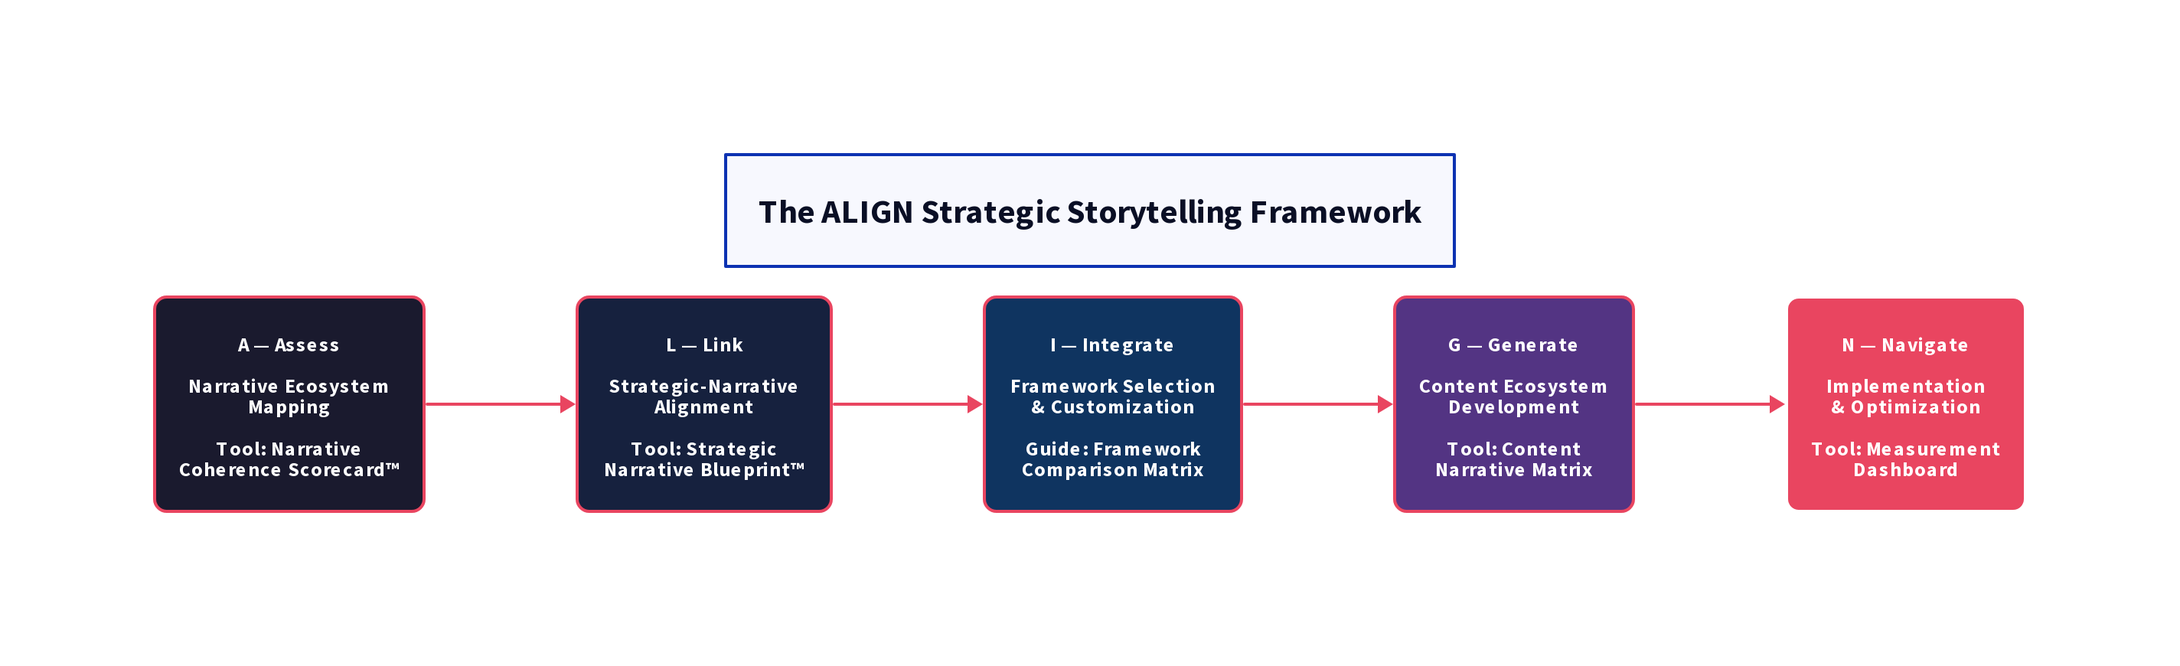
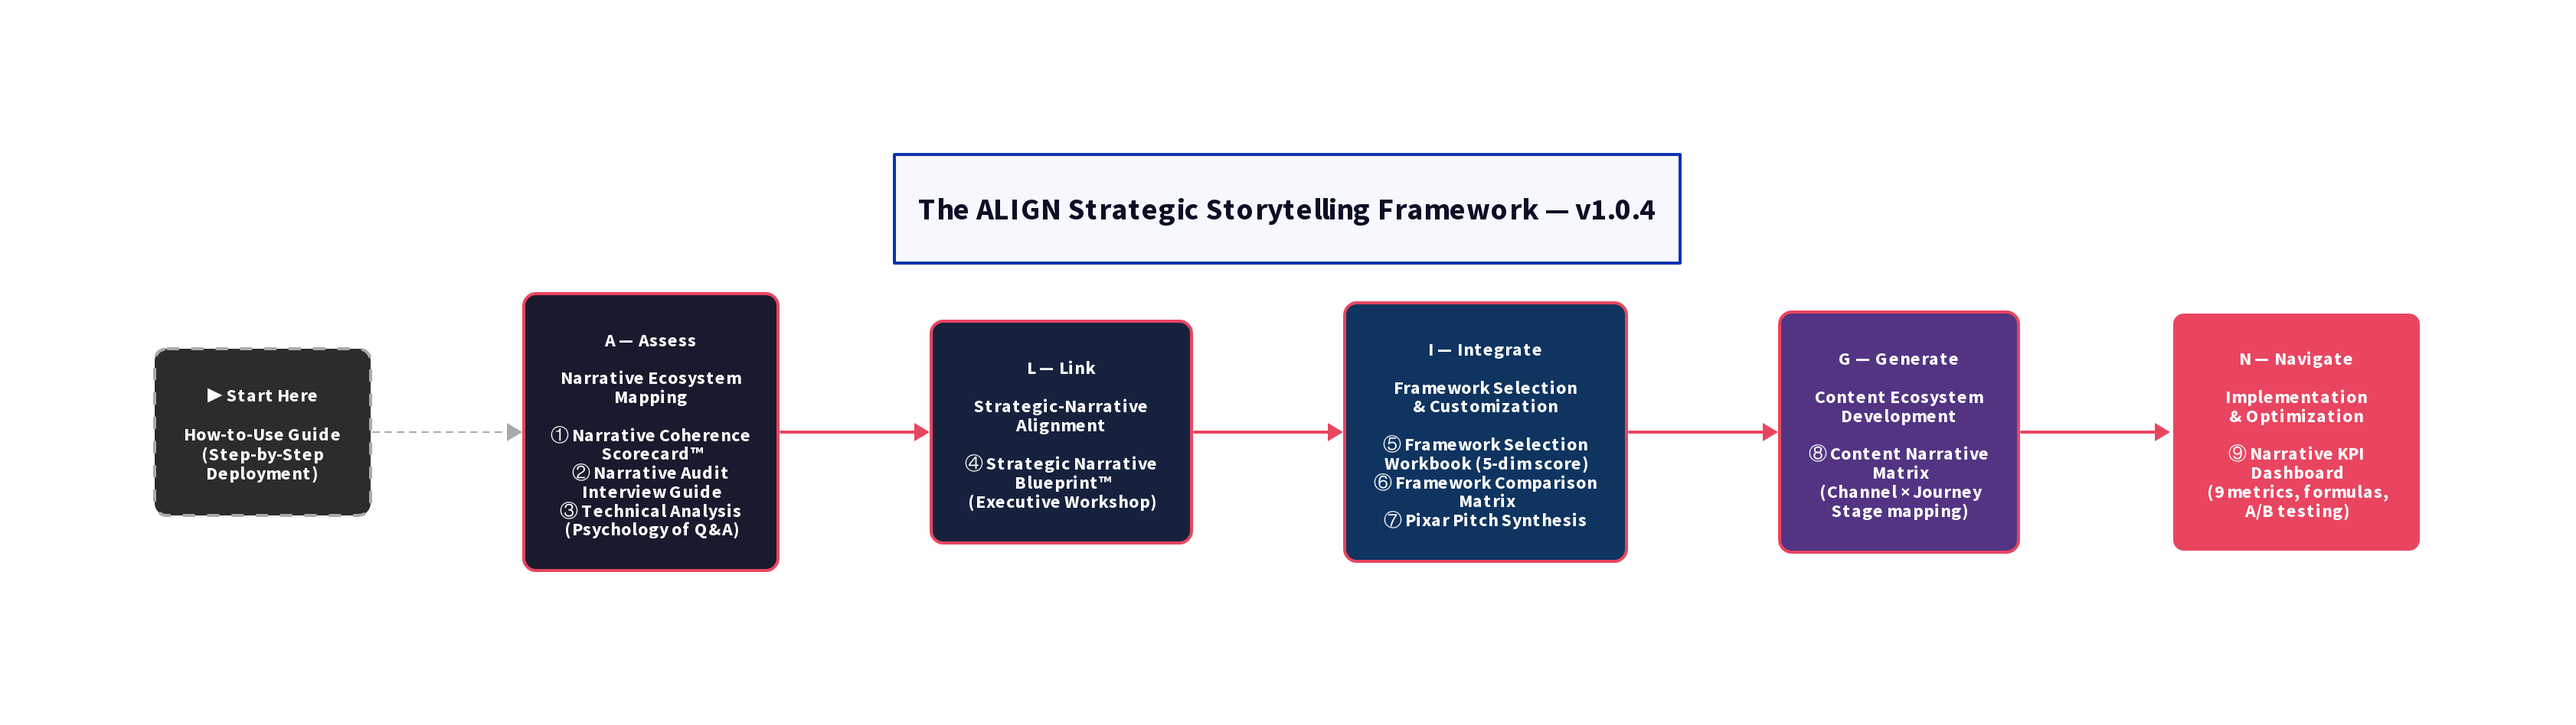
Update all diagrams to reflect full v1.0.4 tool set (v1.0.5)
- align-framework-overview: all 9 tools listed per phase box; Start Here
  entry node added pointing to the step-by-step user guide
- heros-journey-b2b: 12 stages now mapped to specific ALIGN tools and
  Interview Guide question ranges; 5 ALIGN phases shown as subgraph groups
- narrative-architecture: each section now shows the ALIGN tool that feeds
  it (Scorecard/Interview Guide -> Before State; Blueprint -> Villain;
  Framework Workbook -> Unique Mechanism; KPI Dashboard/Content Matrix ->
  After State)
- README.md: version bumped to 1.0.5
- CHANGELOG.md: v1.0.5 entry added

Changed region(s): [[0.0625, 0.2793, 0.9375, 0.8069], [0.3438, 0.1862, 0.6562, 0.2483]]

diff --git a/CHANGELOG.md b/CHANGELOG.md
@@ -59,6 +59,18 @@ The format is based on [Keep a Changelog](https://keepachangelog.com/en/1.0.0/),
 
 ---
 
+## [1.0.5] — 2026-04-06
+
+### Changed
+
+*   `assets/align-framework-overview.d2` and `.png` — framework overview diagram fully updated to reflect v1.0.4 content: all 9 tools are now listed within their respective phase boxes (① Narrative Coherence Scorecard, ② Narrative Audit Interview Guide, ③ Technical Analysis in Phase A; ④ Strategic Narrative Blueprint in Phase L; ⑤ Framework Selection Workbook, ⑥ Framework Comparison Matrix, ⑦ Pixar Pitch Synthesis in Phase I; ⑧ Content Narrative Matrix in Phase G; ⑨ Narrative KPI Dashboard in Phase N); a "Start Here" entry node pointing to the user guide has been added;
+*   `assets/heros-journey-b2b.mmd` and `.png` — Hero's Journey diagram rebuilt to map each of the 12 journey stages to the specific ALIGN tool and Interview Guide question range that corresponds to it; the five ALIGN phases are now shown as grouped subgraphs framing the journey stages;
+*   `assets/narrative-architecture.mmd` and `.png` — narrative architecture diagram updated to show the ALIGN tool that feeds each section (Scorecard + Interview Guide feed the Before State; Blueprint + Interview Guide Q6–Q10 feed the Villain; Framework Selection Workbook feeds the Unique Mechanism; KPI Dashboard and Content Matrix feed the After State);
+*   `README.md` — updated to version 1.0.5;
+*   `CHANGELOG.md` — v1.0.5 entry added.
+
+---
+
 ## [1.0.4] — 2026-04-06
 
 ### Added

diff --git a/README.md b/README.md
@@ -1,6 +1,6 @@
 # ALIGN — Strategic Storytelling Framework
 
-**Version:** 1.0.4 | **License:** MIT | **Created by:** [diShine Digital Agency](https://dishine.it)
+**Version:** 1.0.5 | **License:** MIT | **Created by:** [diShine Digital Agency](https://dishine.it)
 
 > "Facts tell, stories sell — but most companies still lead with features instead of narratives."
 
